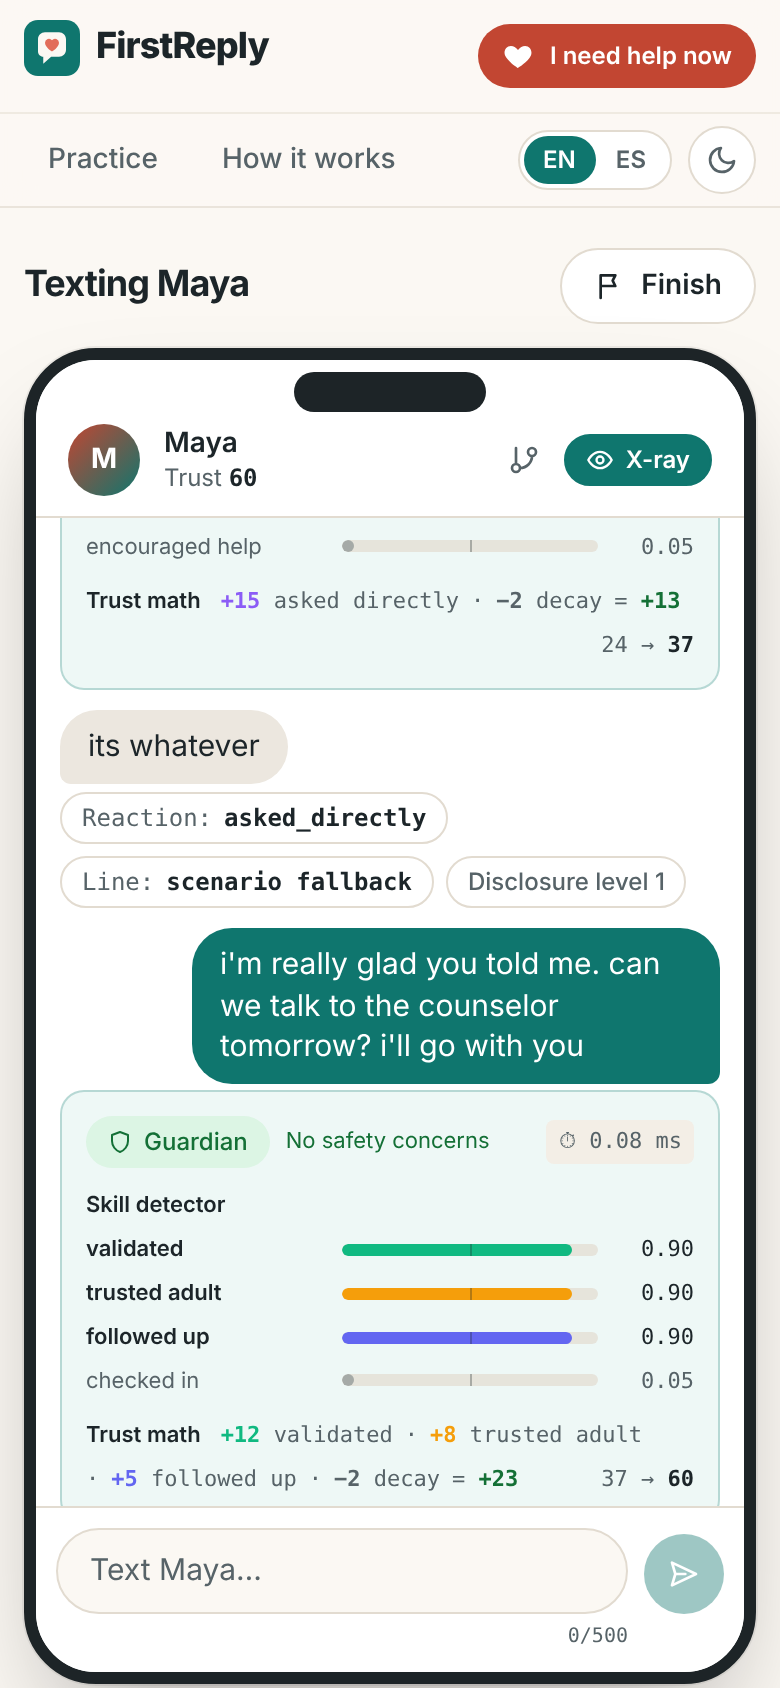
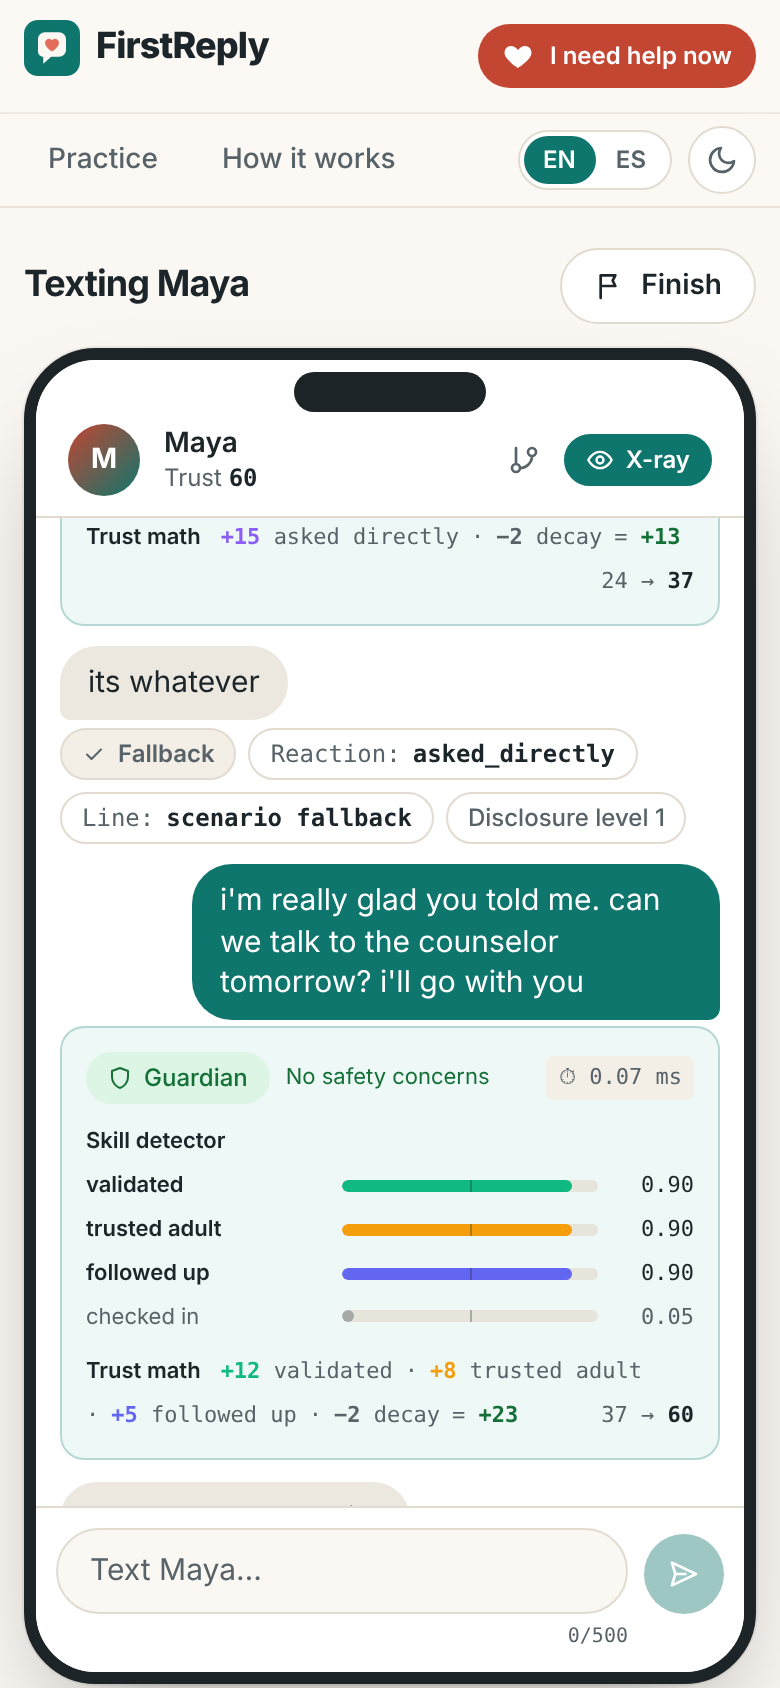
frontend: v3 voice labels in X-ray, 'AI is only the voice' + live LLM status, rewrite source, updated privacy copy

diff --git a/frontend/src/pages/How.tsx b/frontend/src/pages/How.tsx
@@ -4,7 +4,7 @@
  */
 import { useEffect, useState, type FormEvent } from 'react';
 import { api } from '../api/client';
-import type { GuardianResult, Metrics } from '../api/models';
+import type { GuardianResult, Health, Metrics } from '../api/models';
 import { Icon } from '../components/Icon';
 import { PipelineDiagram } from '../components/PipelineDiagram';
 import { usePrefs } from '../i18n';
@@ -118,13 +118,82 @@ function GuardianBox() {
   );
 }
 
+/** "The AI is only the voice": what the LLM does vs what our code decides, plus its live status. */
+function VoiceSection({ health, failed }: { health: Health | null; failed: boolean }) {
+  const { t, tl } = usePrefs();
+  const llm = health?.llm;
+  const rows: [string, string, boolean][] = llm
+    ? [
+        [t('how.llm_enabled'), llm.fake ? t('how.llm_fake') : llm.enabled ? t('how.llm_on') : t('how.llm_off'), llm.enabled],
+        [t('how.llm_key'), llm.has_key ? t('how.llm_key_yes') : t('how.llm_key_no'), llm.has_key],
+        [t('how.llm_model'), llm.model_actor, true],
+        [t('how.llm_spent'), `$${llm.spent_today_usd.toFixed(2)} / $${llm.daily_budget_usd.toFixed(2)}`, llm.spent_today_usd < llm.daily_budget_usd],
+      ]
+    : [];
+  return (
+    <section className="card mt-5 p-5 sm:p-6" data-testid="voice-section">
+      <h2 className="flex items-center gap-2 text-xl font-bold">
+        <Icon name="sparkle" className="h-5 w-5 text-warm" />
+        {t('how.voice_title')}
+      </h2>
+      <p className="mt-1 max-w-3xl text-sm leading-relaxed text-muted">{t('how.voice_sub')}</p>
+      <div className="mt-4 grid gap-4 lg:grid-cols-3">
+        <div className="rounded-2xl bg-warm-soft/50 p-4">
+          <h3 className="font-bold">{t('how.voice_llm_title')}</h3>
+          <ul className="mt-2 space-y-2 text-sm leading-relaxed">
+            {tl('how.voice_llm').map((item, i) => (
+              <li key={i} className="flex gap-2">
+                <Icon name="message" className="mt-0.5 h-4 w-4 shrink-0 text-warm" />
+                {item}
+              </li>
+            ))}
+          </ul>
+        </div>
+        <div className="rounded-2xl bg-brand-soft/60 p-4">
+          <h3 className="font-bold">{t('how.voice_code_title')}</h3>
+          <ul className="mt-2 space-y-2 text-sm leading-relaxed">
+            {tl('how.voice_code').map((item, i) => (
+              <li key={i} className="flex gap-2">
+                <Icon name="shield" className="mt-0.5 h-4 w-4 shrink-0 text-brand" />
+                {item}
+              </li>
+            ))}
+          </ul>
+        </div>
+        <div className="rounded-2xl border border-line p-4" data-testid="llm-status">
+          <h3 className="font-bold">{t('how.llm_title')}</h3>
+          {rows.length === 0 ? (
+            <p className="mt-2 text-sm text-muted">{failed ? t('app.offline') : health ? t('how.llm_unknown') : t('app.loading')}</p>
+          ) : (
+            <dl className="mt-2 space-y-1.5 text-sm">
+              {rows.map(([label, value, ok]) => (
+                <div key={label} className="flex items-center justify-between gap-3">
+                  <dt className="text-muted">{label}</dt>
+                  <dd className="flex items-center gap-1.5 font-mono text-xs">
+                    <span className={`h-2 w-2 rounded-full ${ok ? 'bg-good' : 'bg-warm'}`} aria-hidden="true" />
+                    {value}
+                  </dd>
+                </div>
+              ))}
+            </dl>
+          )}
+          <p className="mt-3 text-xs leading-relaxed text-muted">{t('how.llm_fallback')}</p>
+        </div>
+      </div>
+    </section>
+  );
+}
+
 export function How() {
   const { t, tl } = usePrefs();
   const [metrics, setMetrics] = useState<Metrics | null>(null);
   const [metricsError, setMetricsError] = useState(false);
+  const [health, setHealth] = useState<Health | null>(null);
+  const [healthError, setHealthError] = useState(false);
 
   useEffect(() => {
     api.metrics().then(setMetrics, () => setMetricsError(true));
+    api.health().then(setHealth, () => setHealthError(true));
   }, []);
 
   const records = metrics?.records ?? [];
@@ -139,6 +208,8 @@ export function How() {
         <h2 className="mb-4 text-xl font-bold">{t('how.pipeline_title')}</h2>
         <PipelineDiagram />
       </section>
+
+      <VoiceSection health={health} failed={healthError} />
 
       <div className="mt-5 grid gap-5 lg:grid-cols-[1fr_2fr]">
         <section className="card p-5" data-testid="component-status">

diff --git a/frontend/src/components/Xray.tsx b/frontend/src/components/Xray.tsx
@@ -91,10 +91,29 @@ export function XrayHelper({ node, before }: { node: Node; before: State | null 
   );
 }
 
+const VOICE_STYLE: Record<string, string> = {
+  llm: 'border-transparent bg-brand-soft text-ink',
+  bank: 'border-transparent bg-good-soft text-good',
+  fallback: 'border-line bg-sunken text-muted',
+};
+
+/** Who wrote the friend's words (contracts 1.1): the AI (always verified), a reviewed bank line, or a fallback. */
+export function VoiceChip({ voice }: { voice?: string | null }) {
+  const { t } = usePrefs();
+  if (!voice) return null;
+  return (
+    <span className={`chip font-semibold ${VOICE_STYLE[voice] ?? VOICE_STYLE.fallback}`} data-testid="voice-chip" title={t('xray.voice.label')}>
+      <Icon name={voice === 'llm' ? 'sparkle' : 'check'} className="h-3 w-3" />
+      {t(`xray.voice.${voice}`)}
+    </span>
+  );
+}
+
 export function XrayFriend({ node }: { node: Node }) {
   const { t } = usePrefs();
   return (
     <div className="mt-1 flex max-w-[22rem] flex-wrap items-center gap-1.5 text-[11px] text-muted animate-pop-in" data-testid="xray-friend">
+      <VoiceChip voice={node.voice} />
       {node.reaction && (
         <span className="chip border-line bg-surface font-mono">
           {t('xray.reaction')}: <b className="text-ink">{node.reaction}</b>

diff --git a/frontend/src/api/types.ts b/frontend/src/api/types.ts
@@ -304,7 +304,7 @@ export interface components {
              */
             score: number;
             /** Sources */
-            sources?: ("lexicon" | "classifier")[];
+            sources?: ("lexicon" | "classifier" | "moderation")[];
             /**
              * Latency Ms
              * @default 0
@@ -354,6 +354,8 @@ export interface components {
             rewrite?: string | null;
             /** Rewrite Gain */
             rewrite_gain?: number | null;
+            /** Rewrite Source */
+            rewrite_source?: ("exemplar" | "llm") | null;
         };
         /**
          * Node
@@ -385,6 +387,8 @@ export interface components {
             /** Line Id */
             line_id?: string | null;
             reaction?: components["schemas"]["Reaction"] | null;
+            /** Voice */
+            voice?: ("llm" | "bank" | "fallback") | null;
             /** Created At */
             created_at?: number;
         };

diff --git a/frontend/src/test/safety.test.tsx b/frontend/src/test/safety.test.tsx
@@ -43,3 +43,22 @@ describe('app shell', () => {
     expect(screen.getByRole('contentinfo')).toHaveTextContent(/988/);
   });
 });
+
+describe('X-ray voice chip (contracts 1.1)', () => {
+  it('says who wrote the friend\'s words', async () => {
+    const { VoiceChip } = await import('../components/Xray');
+    renderApp(
+      <>
+        <VoiceChip voice="llm" />
+        <VoiceChip voice="bank" />
+        <VoiceChip voice="fallback" />
+      </>,
+    );
+    expect(screen.getAllByTestId('voice-chip').map((c) => c.textContent)).toEqual(['AI, verified ✓', 'Reviewed line', 'Fallback']);
+  });
+  it('renders nothing for old payloads without a voice', async () => {
+    const { VoiceChip } = await import('../components/Xray');
+    renderApp(<VoiceChip voice={null} />);
+    expect(screen.queryByTestId('voice-chip')).not.toBeInTheDocument();
+  });
+});

diff --git a/frontend/src/pages/Feedback.tsx b/frontend/src/pages/Feedback.tsx
@@ -229,6 +229,11 @@ export function Feedback() {
                       )}
                     </p>
                     <p className="mt-1.5 text-[15px] leading-relaxed">“{score.rewrite}”</p>
+                    {score.rewrite_source && (
+                      <p className="mt-1.5 text-xs text-muted" data-testid="rewrite-source">
+                        {score.rewrite_source === 'llm' ? t('feedback.rewrite_llm') : t('feedback.rewrite_exemplar')}
+                      </p>
+                    )}
                   </div>
                 )}
                 <div className="mt-4">{actions(score.node_id)}</div>

diff --git a/frontend/src/api/models.ts b/frontend/src/api/models.ts
@@ -58,8 +58,18 @@ export interface Metrics {
   components: Record<string, string>;
   records: MetricRecord[];
 }
+/** /api/health `llm` block (contracts 1.1): the OpenAI "voice" gateway's live status. */
+export interface LlmStatus {
+  enabled: boolean;
+  fake: boolean;
+  has_key: boolean;
+  model_actor: string;
+  spent_today_usd: number;
+  daily_budget_usd: number;
+}
 export interface Health {
   ok: boolean;
   contracts_version: string;
   components: Record<string, string>;
+  llm?: LlmStatus;
 }

diff --git a/frontend/src/components/PipelineDiagram.tsx b/frontend/src/components/PipelineDiagram.tsx
@@ -1,5 +1,5 @@
 /**
- * Inline SVG of the pipeline: You → Guardian → Skill detector → State engine → Line bank →
+ * Inline SVG of the pipeline: You → Guardian → Skill detector → State engine → Friend voice →
  * Verifier → Friend. The Guardian can stop a message early (crisis pause / blocked). Drawn
  * horizontally on wide screens and vertically on phones; colors come from the theme tokens.
  */

diff --git a/docs/how/frontend.md b/docs/how/frontend.md
@@ -11,12 +11,12 @@ The frontend is everything you see and tap. It's a website that works like a pho
 | Landing | `/` | A phone mockup, the one-line pitch, three feature cards, the CDC "1 in 5" stat |
 | Scenario picker | `/practice` | Five friends to text (name, age, situation, "open" or "guarded"). Picking one shows a **content warning** first |
 | Chat | `/chat/:id` | iMessage-style texting with typing dots, several bubbles in a row, **"Seen"** when trust falls too far, a live **trust graph**, the **disclosure ladder** (0 surface → 4 open to help) and **skill chips** |
-| X-ray mode | toggle in the chat | Under each of your messages: the Guardian's decision and **latency in ms**, the skill detector's probabilities as bars, and **the trust math** (`+12 validated · −2 decay = +10`). Under the friend's: the reaction and which bank line was used |
+| X-ray mode | toggle in the chat | Under each of your messages: the Guardian's decision and **latency in ms**, the skill detector's probabilities as bars, and **the trust math** (`+12 validated · −2 decay = +10`). Under the friend's: **who wrote the words** ("AI, verified ✓", "Reviewed line" or "Fallback"), the reaction and the line id |
 | Feedback | `/feedback/:id` | 7-skill **radar chart**, summary, **"This is where you lost them"**, missed opportunities, every message with **green/red word highlights**, "uncertain" tags and a **verified rewrite** |
 | Rewind + branches | in the chat | Tap one of your messages → **Rewind to here**. The branch drawer shows every attempt as a tree with trust at each step |
 | What-if | `/whatif/:id` | Better replies simulated forward, side by side, with an overlay chart and a clear **Simulated** label |
 | Real mode | `/real` | **No AI.** Fixed steps, big **Call 988 / Text 988** buttons, the emergency number, a country picker. **Works with the server down** |
-| Transparency | `/how` | Pipeline diagram, live component status, measured numbers, what the AI does and doesn't do, privacy, and a **Try the Guardian** box |
+| Transparency | `/how` | Pipeline diagram, **"The AI is only the voice"** (what OpenAI does vs what our code decides, plus the live LLM status), component status, measured numbers, what the AI does and doesn't do, privacy, and a **Try the Guardian** box |
 | Privacy, 404 | `/privacy`, anything else | Plain-language privacy promises; a friendly not-found page |
 
 On every screen: an **"I need help now"** button (top right), and a footer that says "practice tool, not a crisis service · 911 · 988". After each session the app asks **"How are you feeling after that?"**, and 😔 shows resources.
@@ -38,7 +38,7 @@ test/        vitest tests
 
 **A turn in the chat, step by step:**
 1. You press Enter. Your bubble appears right away (faded) and the typing dots start.
-2. The app sends `POST /api/sessions/{id}/messages`. The server runs Guardian → skill detector → state engine → line bank → verifier and returns a `TurnResponse`.
+2. The app sends `POST /api/sessions/{id}/messages`. The server runs Guardian → skill detector → state engine → friend voice (OpenAI wording, or a reviewed bank line) → verifier and returns a `TurnResponse`. An AI-worded reply can take 1–3 seconds, so the typing dots stay on for the whole request.
 3. The app adds your message and the friend's reply to the conversation. The friend's bubbles appear **one at a time**, each after a typing delay of `clamp(400 + 35 × characters, 800, 3500)` ms. That's long enough to feel like a person, but never slow. If your device asks for reduced motion, the delay is 0.
 4. If the friend left you on read (`seen_no_reply`), "Seen" appears under your message instead.
 5. The trust graph adds a point (`state_after.trust`), colored by the strongest skill detected. The ladder and the skill chips update.
@@ -63,7 +63,7 @@ test/        vitest tests
 
 ## How we measured it (real numbers, with n and the split)
 
-- **Unit tests:** 45 vitest tests in 8 files (`npm run test`), covering the typing delay formula and its edges, highlight span rendering, trust-math formatting, API error handling (404/422/network down/non-JSON), the Real-mode offline fallback, EN/ES key parity, the crisis card not being skippable, the check-in, and the tree/graph helpers.
+- **Unit tests:** 47 vitest tests in 8 files (`npm run test`), covering the typing delay formula and its edges, highlight span rendering, trust-math formatting, API error handling (404/422/network down/non-JSON), the Real-mode offline fallback, EN/ES key parity, the crisis card not being skippable, the check-in, the X-ray voice chip, and the tree/graph helpers.
 - **End-to-end:** `npm run screenshots` drives the whole journey in real Chromium against `make dev-stub`, on a phone (390×844) and a desktop (1440×900). It fails if any step breaks, if the crisis card can be skipped, if the X-ray trust math is missing, if there's any console error, or if the page scrolls sideways. Result: 25 screens × 2 sizes = 50 screenshots in `frontend/screenshots/`.
 - **Accessibility:** every text/background token pair was checked against WCAG AA (4.5:1). The lowest pairs after tuning: white on the coral button 4.98, green on green-soft 5.36, white on the dark-mode bubble 5.93.
 - **Size:** about 86 KB gzipped app code + 63 KB gzipped charts (loaded as a separate cached chunk) + 7 KB CSS.
@@ -73,12 +73,13 @@ test/        vitest tests
 - In stub mode the critic never writes rewrites, so the rewrite screenshot (`13-feedback-rewrite`) adds one to the real stub response inside the Playwright script. The UI is real; that one piece of data is a test fixture. With the ML lane's critic on, rewrites come from the server.
 - The rewrite badge shows the gain ("+0.41") but can't name the skill until the API adds `rewrite_skill` (requested). The code already reads it if present.
 - The per-label trust weights in X-ray mode mirror `engine/config.yaml`. If the engine lane changes them, the "other" term absorbs the difference, so the total stays correct, but `lib/trustMath.ts` should be updated (or the API could send the breakdown, also requested).
+- Feedback rewrites are labeled by source (`rewrite_source`): "Suggested by AI, verified by our model" or "From our exemplar bank".
 - Spanish UI text was drafted by an agent and needs a native speaker's review (`es.json` → `_meta.needs_native_review`).
 - Refreshing a deep link (`/chat/…`) on the FastAPI server works through a `404.html` copy of the app. It loads fine, but the HTTP status is 404 until the server adds a proper SPA fallback (requested).
 
 ## Questions a judge might ask (with answers)
 
-1. **"Is the friend just ChatGPT?"** No. The app never calls any AI service. The friend's lines are pre-written and reviewed. Our own models (running on our server) score your message, and the state engine picks a line. X-ray mode shows every number behind each reply, including how long the safety check took.
+1. **"Is the friend just ChatGPT?"** No. The AI is only the voice. Our state engine decides what the friend is ready to reveal, our Guardian and verifier decide whether a reply is safe, and our trained models do all the scoring. OpenAI only words the reply inside those limits, and every AI reply is checked before it's shown. Without the AI, the friend uses pre-written, reviewed lines. X-ray mode labels every friend reply ("AI, verified ✓", "Reviewed line" or "Fallback") and shows every number behind it. The Transparency page shows the AI's live status and today's spending.
 2. **"What happens if a student types something that suggests *they're* not okay?"** The Guardian checks every message before anything else runs. If it detects risk, the practice pauses and a card shows 988 and "talk to a trusted adult." It can't be closed until the student confirms they've seen the resources. On the Transparency page you can watch "kms" get caught while "are you thinking about killing yourself?" (the *right* question to ask a friend) is allowed.
 3. **"Does it work for someone in a real crisis if your server is down?"** Yes. Real mode's text and helplines are bundled into the app at build time. If the server doesn't answer, it shows that saved copy and says so. The 988 call and text buttons are plain phone links.
 4. **"How do you know the trust graph isn't faked?"** Every point is the engine's real `trust` value after that message, straight from the API. The X-ray equation always adds up to the engine's real change, and any part we can't attribute to a skill is labeled "other" instead of being hidden.

diff --git a/wt-notes/frontend.md b/wt-notes/frontend.md
@@ -6,9 +6,11 @@
 - App shell: sticky top bar, an always-visible **"I need help now"** button → `/real`, safety footer, EN/ES toggle (`src/i18n/*.json`, ES marked `needs_native_review`), dark mode (saved, no flash), design tokens in `src/index.css`.
 - Screens: Landing, Scenario picker + content warning, Chat (typing delays, staggered bubbles, Seen, crisis card, blocked card, success/fail endings, trust graph, disclosure ladder, skill chips, rewind, branch tree drawer), **X-ray mode** (Guardian level/action/latency/evidence, probability bars, trust math; friend reaction/line id/level), Feedback (radar, summary, turning point, missed opportunities, highlights, uncertain tags, verified rewrite, Try again from here, What if?), What-if (side-by-side paths, mini chats, mini curves, overlay chart, Simulated label, "Try this in the chat"), Real mode (country picker, tel:/sms: buttons, emergency number, **offline fallback** from bundled `content/` copies), Transparency (inline SVG pipeline, live component status, metrics table with empty state, does/doesn't, privacy, **Try the Guardian** with presets), after-session check-in, Privacy, 404.
 - Accessibility: keyboard everywhere, focus rings, focus-trapping dialogs, `aria-live="polite"` message list, chart text alternatives, WCAG AA token contrast (checked), reduced motion respected.
-- Tests: 45 vitest tests (typingDelay, highlights, trust math, API errors, Real-mode fallback, i18n parity, crisis card, check-in, shell, tree/graph helpers).
+- Tests: 47 vitest tests (typingDelay, highlights, trust math, API errors, Real-mode fallback, i18n parity, crisis card, check-in, shell, tree/graph helpers).
 - `scripts/screenshots.mjs`: full journey in Chromium (mobile 390×844 + desktop 1440×900) against `make dev-stub` → 50 screenshots in `frontend/screenshots/`. Fails on any broken step, a skippable crisis card, console errors or horizontal overflow.
 - `dist/404.html` = copy of `index.html`, so deep links load when FastAPI serves the build (StaticFiles html mode serves 404.html).
+
+- **v3 / contracts 1.1** (integrator update): merged `claude/amazing-carson-31tzo3`, regenerated types. X-ray shows who wrote each friend reply (`voice`: AI verified ✓ / Reviewed line / Fallback). Transparency has "The AI is only the voice" plus live LLM status from `/api/health`. Feedback labels rewrites by `rewrite_source`. The typing indicator stays on for the whole request (AI replies take 1–3 s). Privacy, does/doesn't and pipeline copy now say OpenAI words the friend's replies (EN + ES).
 
 ## In progress
 - Nothing. Lane is feature-complete against the stubs.
@@ -28,12 +30,14 @@
 3. **Contracts (integrator + engine):** optional `State.trust_terms: dict[str, float] | None` (per-label contributions + decay) so X-ray mode can show the engine's exact breakdown instead of mirroring `engine/config.yaml` weights.
 4. **Deploy lane:** build the frontend with `cd frontend && npm ci && npm run build`. The `prebuild` step copies `content/*.json` into `src/content/` if present (committed copies are used otherwise).
 
+5. **Integrator (privacy):** `llm.py` caches LLM responses on disk (`.cache/llm/`), keyed on inputs that include practice messages. The privacy copy no longer says "never written to disk", but please confirm what is kept and for how long, so the Privacy page can state it exactly.
+
 ## Known issues
 - Spanish strings need native review.
 - With every component stubbed, the summary text is the stub's placeholder and metrics are empty (the page shows a friendly empty state).
 
 ## Numbers
-- vitest: 45/45 passing (8 files).
+- vitest: 47/47 passing (8 files).
 - E2E journey: passes on mobile + desktop; 50 screenshots.
 - Bundle: app 264 KB (86 KB gzip), charts 179 KB (63 KB gzip, separate chunk), CSS 36 KB (7 KB gzip).
 - Lowest AA contrast pair: 4.98 (white on coral button, light mode).
